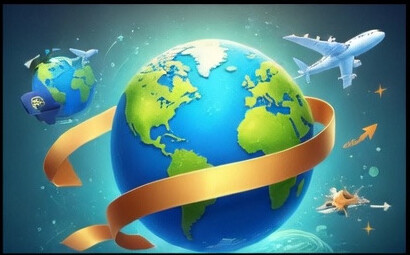
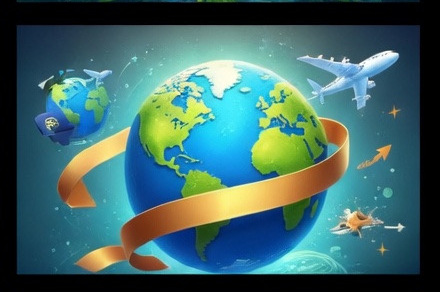
Differentiate climate and immigration card images with background positioning
Climate shows leaves/top, immigration shows planes/ribbon/bottom to avoid
two similar globe illustrations side by side.

diff --git a/src/app/issues/page.tsx b/src/app/issues/page.tsx
@@ -25,6 +25,11 @@ const issueColor: Record<string, string> = {
   defense: "#1a1a2e",
 };
 
+const issuePosition: Record<string, string> = {
+  environment: "center top",
+  immigration: "left bottom",
+};
+
 const issueSummary: Record<string, string> = {
   healthcare:
     "Drug prices are 2-3x higher than peer nations. The $35 insulin cap only covers Medicare. Rural ERs are closing. Mental health parity is law but rarely enforced.",
@@ -58,6 +63,7 @@ export default function IssuesPage() {
         {issues.map((issue) => {
           const accent = issueColor[issue.id] || "#1a1a2e";
           const bgImage = issueImage[issue.id];
+          const bgPos = issuePosition[issue.id] || "center";
           const summary = issueSummary[issue.id] || issue.description;
           return (
             <Link
@@ -78,7 +84,7 @@ export default function IssuesPage() {
                   style={{
                     backgroundImage: `url(${bgImage})`,
                     backgroundSize: "cover",
-                    backgroundPosition: "center",
+                    backgroundPosition: bgPos,
                   }}
                 />
                 <div

diff --git a/src/app/page.tsx b/src/app/page.tsx
@@ -48,6 +48,11 @@ const issueImage: Record<string, string> = {
   defense: "/images/issues/defense.jpg",
 };
 
+const issuePosition: Record<string, string> = {
+  environment: "center top",
+  immigration: "left bottom",
+};
+
 interface FeedItem {
   id: string;
   type: string;
@@ -608,6 +613,7 @@ export default function Home() {
               {issues.map((issue) => {
                 const accent = issueColor[issue.id] || "#1a1a2e";
                 const bgImage = issueImage[issue.id];
+                const bgPos = issuePosition[issue.id] || "center";
                 return (
                   <Link
                     key={issue.id}
@@ -626,7 +632,7 @@ export default function Home() {
                         style={{
                           backgroundImage: `url(${bgImage})`,
                           backgroundSize: "cover",
-                          backgroundPosition: "center",
+                          backgroundPosition: bgPos,
                         }}
                       />
                     )}
